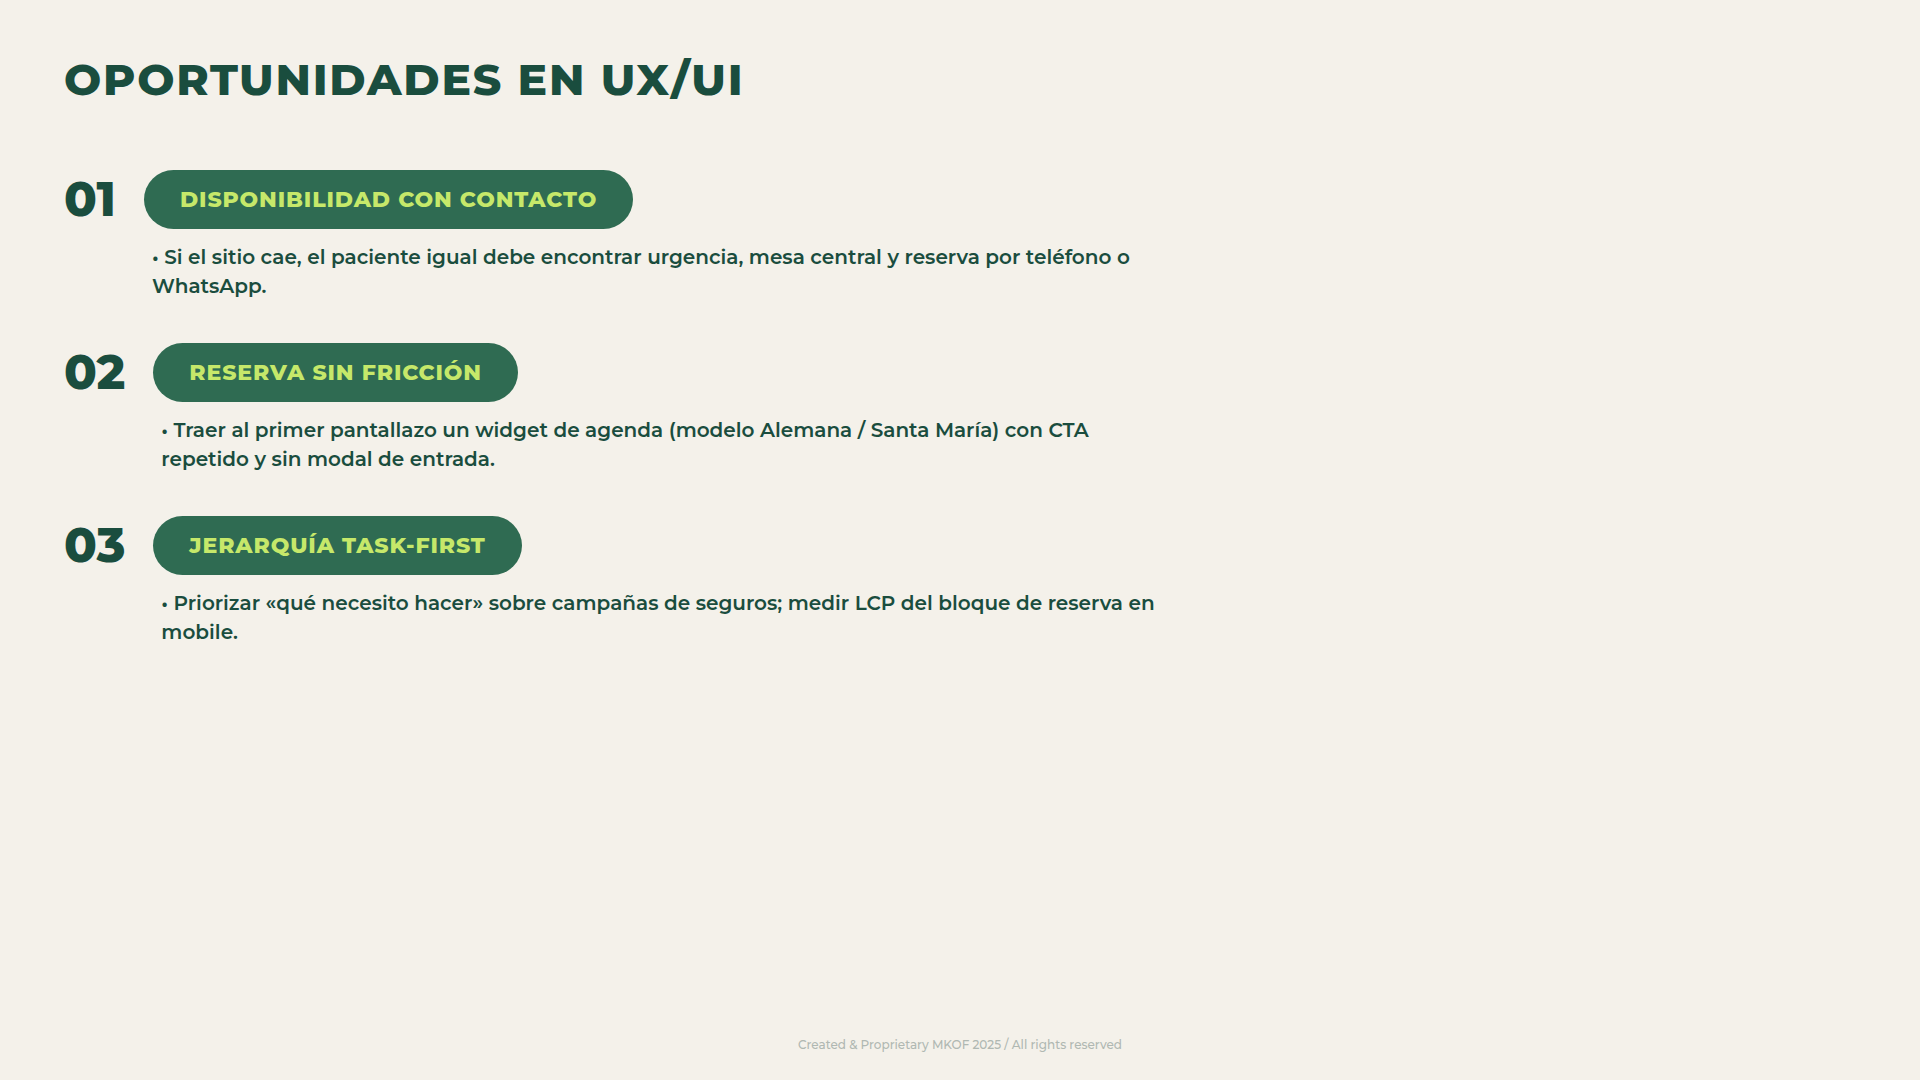
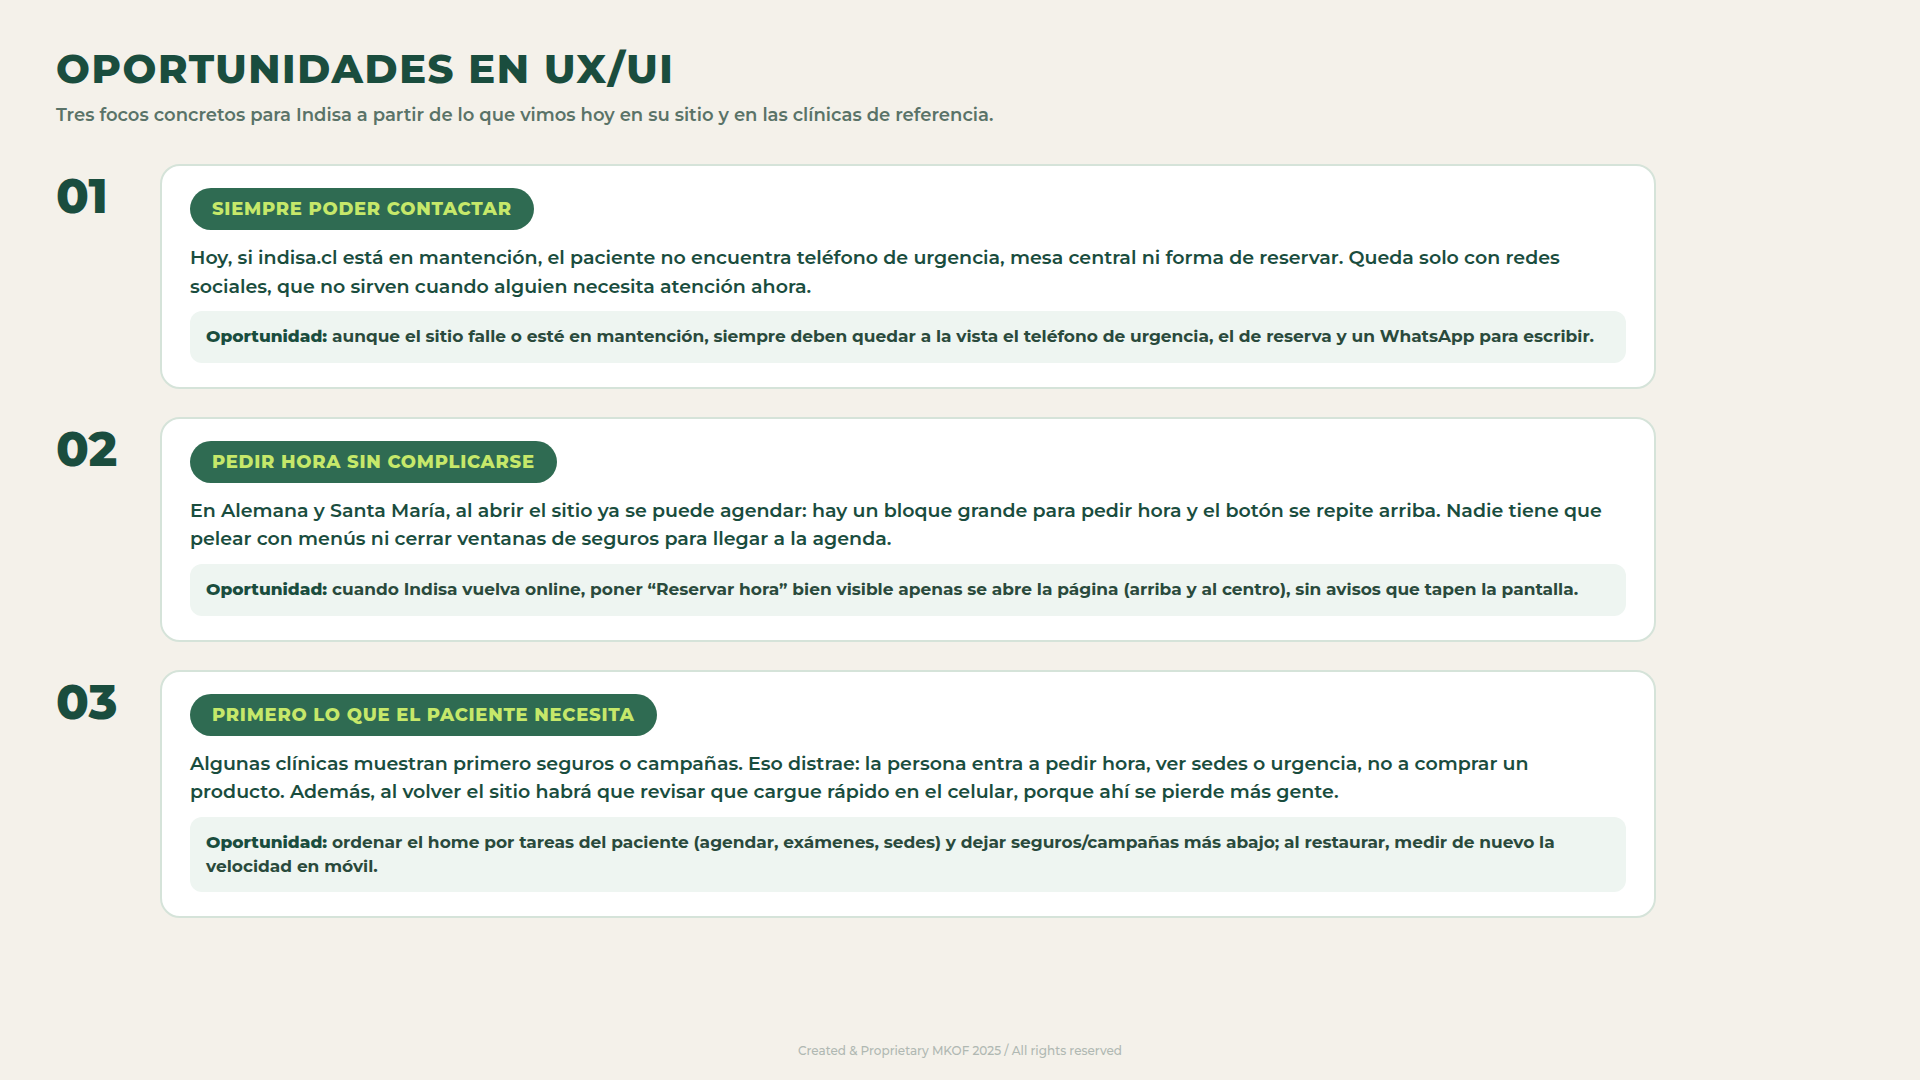
fix(mkof): oportunidades UX en lenguaje claro y más completo
Sin jerga (widget/CTA/LCP); cada punto explica el problema y la oportunidad.

diff --git a/index/clientes/mkof/prospecto/clientes/clinica-indisa/laminas/web/09-oportunidades-uxui.html b/index/clientes/mkof/prospecto/clientes/clinica-indisa/laminas/web/09-oportunidades-uxui.html
@@ -1,46 +1,139 @@
-<!DOCTYPE html><html lang="es"><head><meta charset="UTF-8"><title>Oportunidades</title><style>
-@import url('https://fonts.googleapis.com/css2?family=Montserrat:wght@500;600;700;800&display=swap');
-*{box-sizing:border-box;margin:0;padding:0}
-body{width:1920px;height:1080px;background:#f4f1ea;font-family:Montserrat,system-ui,sans-serif;color:#1a4d3e;padding:52px 64px;position:relative;overflow:hidden}
-h1{font-size:44px;font-weight:800;letter-spacing:.04em;color:#1a4d3e}
-.sub{font-size:22px;font-weight:600;color:#6a8f7a;margin-top:8px;letter-spacing:.06em}
-.foot{position:absolute;bottom:28px;left:0;right:0;text-align:center;font-size:12px;color:#b0b8b2}
-.box{background:#1a4d3e;color:#d8f0a8;border-radius:22px;padding:28px 32px}
-.box h2{font-size:26px;font-weight:800;color:#c6e86a;margin-bottom:14px}
-.box p,.box li{font-size:20px;line-height:1.45;color:#e8f5d0;font-weight:600}
-.pill{background:#2f6b52;color:#fff;border-radius:999px;padding:14px 28px;font-weight:700;font-size:16px;letter-spacing:.04em}
-.rec{background:#3d6b4f;color:#fff;border-radius:18px;padding:22px 20px;font-size:17px;font-weight:600;line-height:1.4}
-.rec b{font-weight:800}
-.cap{background:#2f6b52;color:#c6e86a;border-radius:999px;padding:16px 36px;font-size:22px;font-weight:800;letter-spacing:.04em;display:inline-block}
-.num{font-size:48px;font-weight:800;color:#1a4d3e}
-.wedge{height:28px;background:linear-gradient(90deg,#c6e86a 0%,#2f6b52 100%);border-radius:0 14px 14px 0;position:relative;width:420px}
-.pin{position:absolute;top:-10px;width:18px;height:48px;background:#1a4d3e;border-radius:4px;transform:translateX(-50%)}
-.metric-row{display:flex;align-items:center;gap:18px;margin:14px 0}
-.icon-circle{width:64px;height:64px;border-radius:50%;background:#d8ecd8;display:grid;place-items:center;font-size:28px;flex-shrink:0}
-</style></head><body>
+<!DOCTYPE html>
+<html lang="es">
+<head>
+  <meta charset="UTF-8">
+  <title>Oportunidades UX/UI · Indisa</title>
+  <style>
+    @import url('https://fonts.googleapis.com/css2?family=Montserrat:wght@500;600;700;800&display=swap');
+    * { box-sizing: border-box; margin: 0; padding: 0; }
+    body {
+      width: 1920px; height: 1080px; background: #f4f1ea;
+      font-family: Montserrat, system-ui, sans-serif; color: #1a4d3e;
+      padding: 44px 56px 32px; position: relative; overflow: hidden;
+    }
+    h1 { font-size: 40px; font-weight: 800; letter-spacing: 0.04em; }
+    .intro {
+      margin-top: 10px; max-width: 1100px;
+      font-size: 18px; font-weight: 600; color: #5a7368; line-height: 1.4;
+    }
+    .foot {
+      position: absolute; bottom: 22px; left: 0; right: 0;
+      text-align: center; font-size: 12px; color: #b0b8b2;
+    }
+    .list {
+      margin-top: 36px;
+      display: flex;
+      flex-direction: column;
+      gap: 28px;
+      max-width: 1600px;
+    }
+    .item {
+      display: grid;
+      grid-template-columns: 80px 1fr;
+      gap: 24px;
+      align-items: start;
+    }
+    .num {
+      font-size: 48px;
+      font-weight: 800;
+      color: #1a4d3e;
+      line-height: 1;
+      padding-top: 8px;
+    }
+    .card {
+      background: #fff;
+      border: 2px solid #d5e3d9;
+      border-radius: 20px;
+      padding: 22px 28px 24px;
+    }
+    .pill {
+      display: inline-block;
+      background: #2f6b52;
+      color: #c6e86a;
+      font-size: 18px;
+      font-weight: 800;
+      letter-spacing: 0.04em;
+      padding: 10px 22px;
+      border-radius: 999px;
+      margin-bottom: 14px;
+    }
+    .card p {
+      font-size: 19px;
+      font-weight: 600;
+      color: #1a4d3e;
+      line-height: 1.5;
+      margin-bottom: 10px;
+    }
+    .card .para {
+      background: #eef5f1;
+      border-radius: 12px;
+      padding: 14px 16px;
+      font-size: 17px;
+      font-weight: 700;
+      color: #2a4a3c;
+      line-height: 1.4;
+      margin-top: 6px;
+    }
+    .card .para b { color: #1a4d3e; }
+  </style>
+</head>
+<body>
   <h1>OPORTUNIDADES EN UX/UI</h1>
-  <div style="margin-top:64px;display:flex;flex-direction:column;gap:42px;max-width:1100px">
-    
-      <div style="display:flex;gap:28px;align-items:flex-start">
-        <div class="num">01</div>
-        <div style="flex:1">
-          <div class="cap">DISPONIBILIDAD CON CONTACTO</div>
-          <div style="margin-top:14px;font-size:20px;font-weight:600;color:#1a4d3e;line-height:1.45;padding-left:8px">• Si el sitio cae, el paciente igual debe encontrar urgencia, mesa central y reserva por teléfono o WhatsApp.</div>
-        </div>
-      </div>
-      <div style="display:flex;gap:28px;align-items:flex-start">
-        <div class="num">02</div>
-        <div style="flex:1">
-          <div class="cap">RESERVA SIN FRICCIÓN</div>
-          <div style="margin-top:14px;font-size:20px;font-weight:600;color:#1a4d3e;line-height:1.45;padding-left:8px">• Traer al primer pantallazo un widget de agenda (modelo Alemana / Santa María) con CTA repetido y sin modal de entrada.</div>
-        </div>
-      </div>
-      <div style="display:flex;gap:28px;align-items:flex-start">
-        <div class="num">03</div>
-        <div style="flex:1">
-          <div class="cap">JERARQUÍA TASK-FIRST</div>
-          <div style="margin-top:14px;font-size:20px;font-weight:600;color:#1a4d3e;line-height:1.45;padding-left:8px">• Priorizar «qué necesito hacer» sobre campañas de seguros; medir LCP del bloque de reserva en mobile.</div>
-        </div>
-      </div>
+  <div class="intro">
+    Tres focos concretos para Indisa a partir de lo que vimos hoy en su sitio
+    y en las clínicas de referencia.
   </div>
-<div class="foot">Created & Proprietary MKOF 2025 / All rights reserved</div></body></html>
+
+  <div class="list">
+    <div class="item">
+      <div class="num">01</div>
+      <div class="card">
+        <div class="pill">SIEMPRE PODER CONTACTAR</div>
+        <p>
+          Hoy, si indisa.cl está en mantención, el paciente no encuentra teléfono de urgencia,
+          mesa central ni forma de reservar. Queda solo con redes sociales, que no sirven
+          cuando alguien necesita atención ahora.
+        </p>
+        <div class="para">
+          <b>Oportunidad:</b> aunque el sitio falle o esté en mantención, siempre deben quedar
+          a la vista el teléfono de urgencia, el de reserva y un WhatsApp para escribir.
+        </div>
+      </div>
+    </div>
+
+    <div class="item">
+      <div class="num">02</div>
+      <div class="card">
+        <div class="pill">PEDIR HORA SIN COMPLICARSE</div>
+        <p>
+          En Alemana y Santa María, al abrir el sitio ya se puede agendar: hay un bloque grande
+          para pedir hora y el botón se repite arriba. Nadie tiene que pelear con menús
+          ni cerrar ventanas de seguros para llegar a la agenda.
+        </p>
+        <div class="para">
+          <b>Oportunidad:</b> cuando Indisa vuelva online, poner “Reservar hora” bien visible
+          apenas se abre la página (arriba y al centro), sin avisos que tapen la pantalla.
+        </div>
+      </div>
+    </div>
+
+    <div class="item">
+      <div class="num">03</div>
+      <div class="card">
+        <div class="pill">PRIMERO LO QUE EL PACIENTE NECESITA</div>
+        <p>
+          Algunas clínicas muestran primero seguros o campañas. Eso distrae: la persona entra
+          a pedir hora, ver sedes o urgencia, no a comprar un producto. Además, al volver el
+          sitio habrá que revisar que cargue rápido en el celular, porque ahí se pierde más gente.
+        </p>
+        <div class="para">
+          <b>Oportunidad:</b> ordenar el home por tareas del paciente (agendar, exámenes, sedes)
+          y dejar seguros/campañas más abajo; al restaurar, medir de nuevo la velocidad en móvil.
+        </div>
+      </div>
+    </div>
+  </div>
+
+  <div class="foot">Created & Proprietary MKOF 2025 / All rights reserved</div>
+</body>
+</html>
